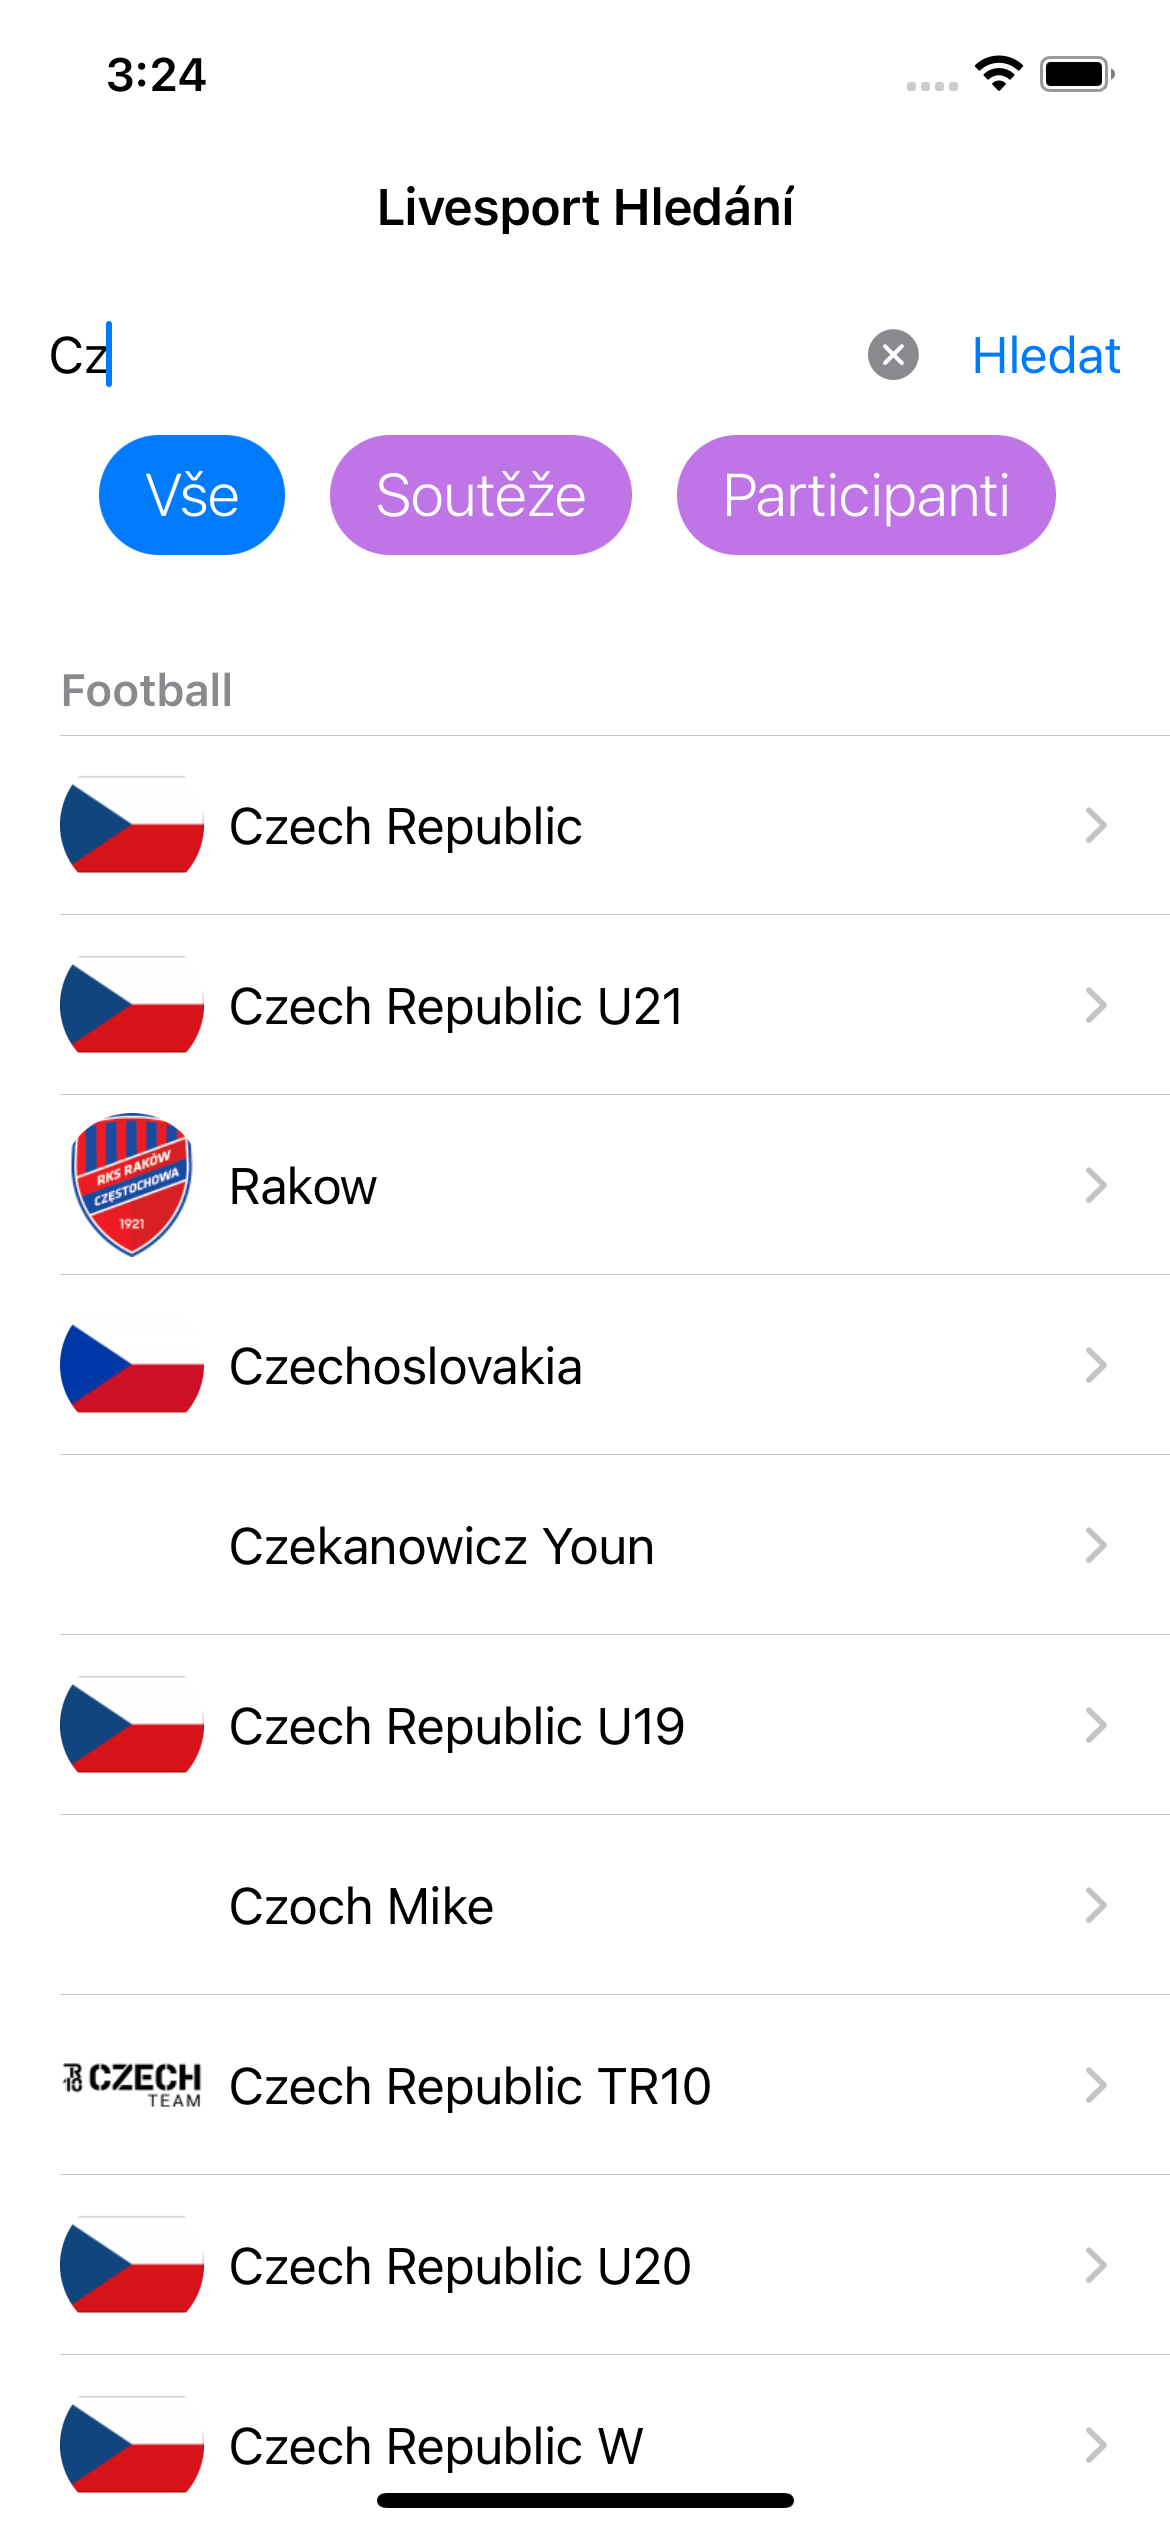
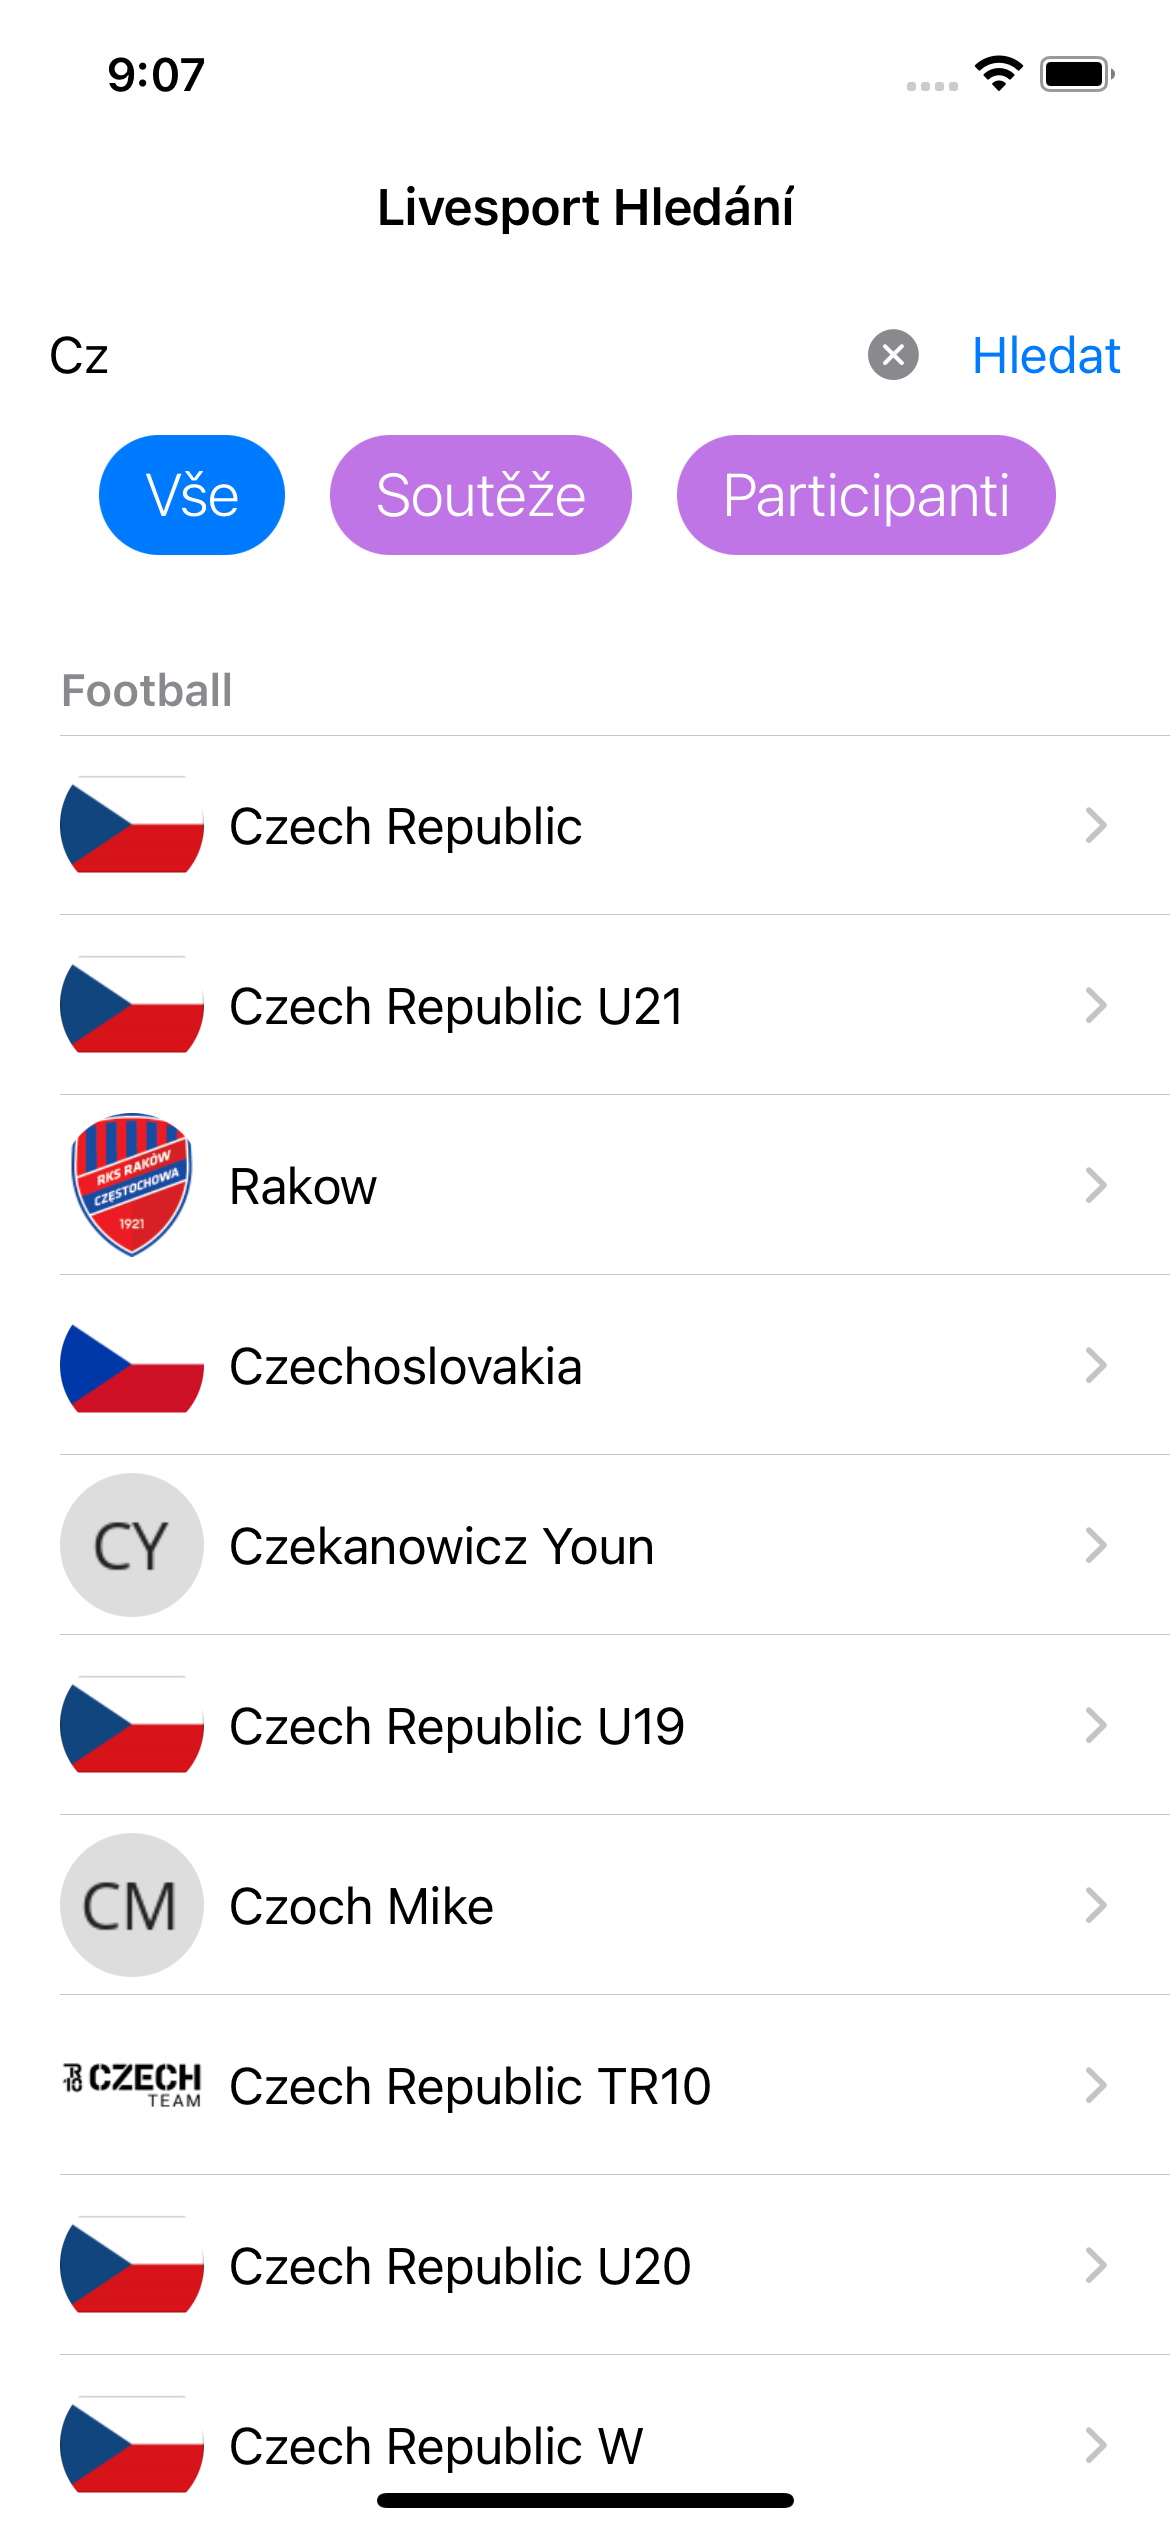
Move magic strings to constants

Changed region(s): [[0.0308, 0.5616, 0.1846, 0.6552], [0.0308, 0.7176, 0.1846, 0.78], [0.0923, 0.0, 0.1538, 0.0312]]

diff --git a/search/logic/src/commonMain/kotlin/com/chyrta/livesport/search/logic/domain/mapper/Mappers.kt b/search/logic/src/commonMain/kotlin/com/chyrta/livesport/search/logic/domain/mapper/Mappers.kt
@@ -1,5 +1,6 @@
 package com.chyrta.livesport.search.logic.domain.mapper
 
+import com.chyrta.livesport.common.data.remote.Constants
 import com.chyrta.livesport.search.logic.data.remote.model.ApiId
 import com.chyrta.livesport.search.logic.data.remote.model.ApiImage
 import com.chyrta.livesport.search.logic.data.remote.model.ApiSearchEntity
@@ -21,9 +22,13 @@ fun ApiSearchEntity.mapToSportEntity() = SearchResultItemEntity(
 )
 
 fun List<ApiImage>.mapToImageUrl(name: String): String {
-    val img = this.find { it.variantTypeId == 15 }?.path
-    val alternativeUrl = URLBuilder("https://ui-avatars.com/api/$name").buildString()
-    return img?.let { "https://www.livesport.cz/res/image/data/$img" } ?: alternativeUrl
+    val defaultImageFile = this.find { it.variantTypeId == 15 }?.path
+    val alternativeUrl = URLBuilder(Constants.UI_AVATAR_IMAGE_URL).apply {
+        parameters.append("name", name)
+    }.buildString()
+    return defaultImageFile
+        ?.let { Constants.LIVESPORT_IMAGE_URL + defaultImageFile }
+        ?: alternativeUrl
 }
 
 fun ApiId.mapToGenderEntity() = GenderEntity.values()[id - 1]

diff --git a/core/common/src/commonMain/kotlin/com/chyrta/livesport/common/base/di/NetworkModule.kt b/core/common/src/commonMain/kotlin/com/chyrta/livesport/common/base/di/NetworkModule.kt
@@ -1,5 +1,6 @@
 package com.chyrta.livesport.common.base.di
 
+import com.chyrta.livesport.common.data.remote.Constants
 import io.ktor.client.HttpClient
 import io.ktor.client.plugins.contentnegotiation.ContentNegotiation
 import io.ktor.client.plugins.defaultRequest
@@ -18,7 +19,7 @@ val networkModule = module {
         HttpClient {
             expectSuccess = true
             defaultRequest {
-                url("https://s.livesport.services/api/v2/")
+                url(Constants.LIVESPORT_API_URL)
             }
             install(ContentNegotiation) {
                 json(get())

diff --git a/iosApp/iosApp/Features/SearchDetail/SearchDetailScreen.swift b/iosApp/iosApp/Features/SearchDetail/SearchDetailScreen.swift
@@ -15,7 +15,7 @@ struct SearchDetailScreen: View {
     
     var body: some View {
         VStack {
-            KFImage(URL(string: item.image!)!)
+            KFImage(URL(string: item.image!))
                 .resizable()
                 .frame(width: 100, height: 100)
                 .clipShape(Circle())

diff --git a/core/common/src/commonMain/kotlin/com/chyrta/livesport/common/data/remote/Constants.kt b/core/common/src/commonMain/kotlin/com/chyrta/livesport/common/data/remote/Constants.kt
@@ -1,0 +1,7 @@
+package com.chyrta.livesport.common.data.remote
+
+object Constants {
+    const val LIVESPORT_API_URL = "https://s.livesport.services/api/v2/"
+    const val LIVESPORT_IMAGE_URL = "https://www.livesport.cz/res/image/data/"
+    const val UI_AVATAR_IMAGE_URL = "https://ui-avatars.com/api/"
+}
